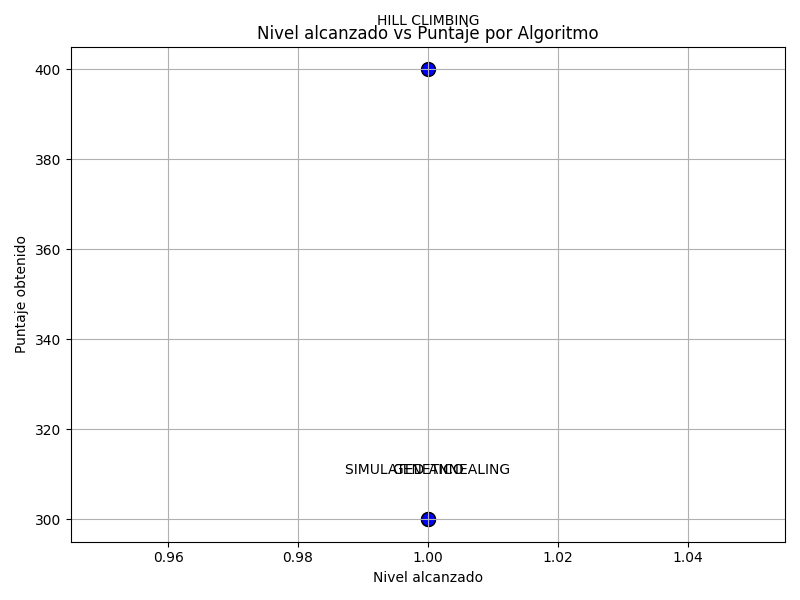
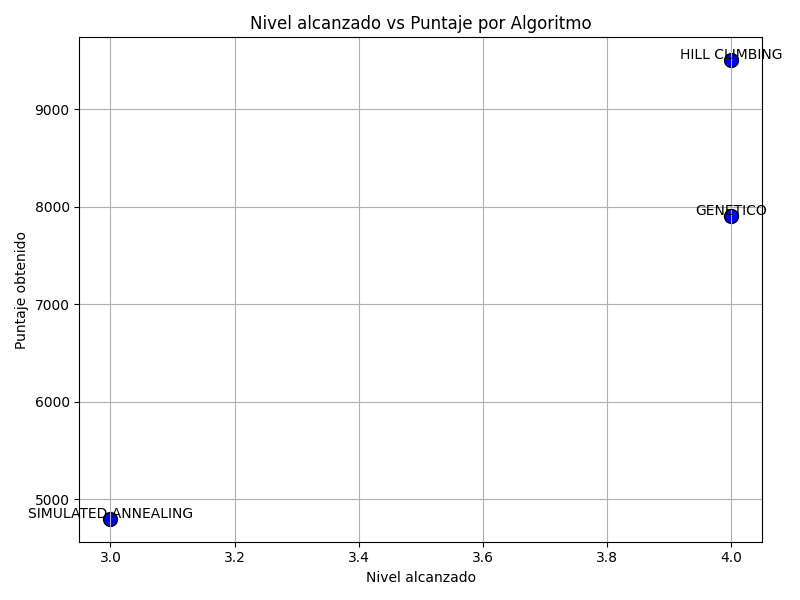
Pruebas luego de 100 piezas

diff --git a/src/main.py b/src/main.py
@@ -8,9 +8,10 @@ def main():
     # algoritmos
     algoritmos = ["Hill Climbing", "Simulated Annealing", "Genetico"]
     resultados_totales = []
-    semillas = random.sample(range(0,1000000),10)
+    semillas = random.sample(range(0,1000000),1)
+
     for i in range(len(semillas)):
-        
+    
         for algoritmo in algoritmos:
             resultado = controlador(algoritmo, semillas[i])
             resultados_totales.append((algoritmo, i+1, resultado))
